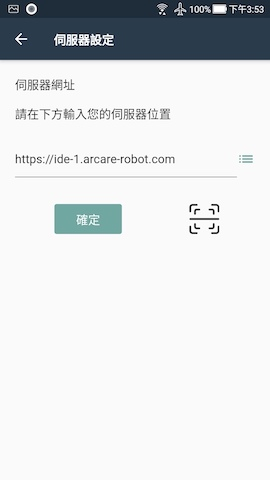
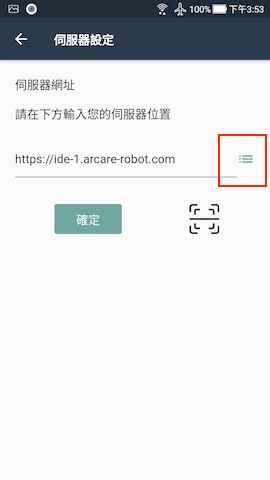
補上帳密記錄畫面

Changed region(s): [[0.8, 0.2812, 1.0, 0.4062]]

diff --git a/8.10.0/UPDATE/ITEM_9/README.md b/8.10.0/UPDATE/ITEM_9/README.md
@@ -26,17 +26,21 @@
       * 可記錄登入帳密及記錄勾選設定，一個伺服器只記錄一組
 
 #### <div id="photo">畫面</div>
-  * 新增伺服器
+  * 新增伺服器(紅框為伺服器清單)
   
     ![Servrer Add](./image/server_add.jpg)
 
-  * 伺服器清單
+  * 伺服器清單(紅框為修改名稱，藍框為刪除伺服器)
   
     ![Servrer List](./image/server_list.jpg)
 
   * 修改伺服器名稱
   
     ![Servrer Name](./image/server_name.jpg)
+
+  * 記錄登入帳密(紅框處)
+
+    ![Servrer Account Password](./image/server_account_password.jpg)
 
 #### <div id="workflow">作業流程</div>
   * 新增伺服器
